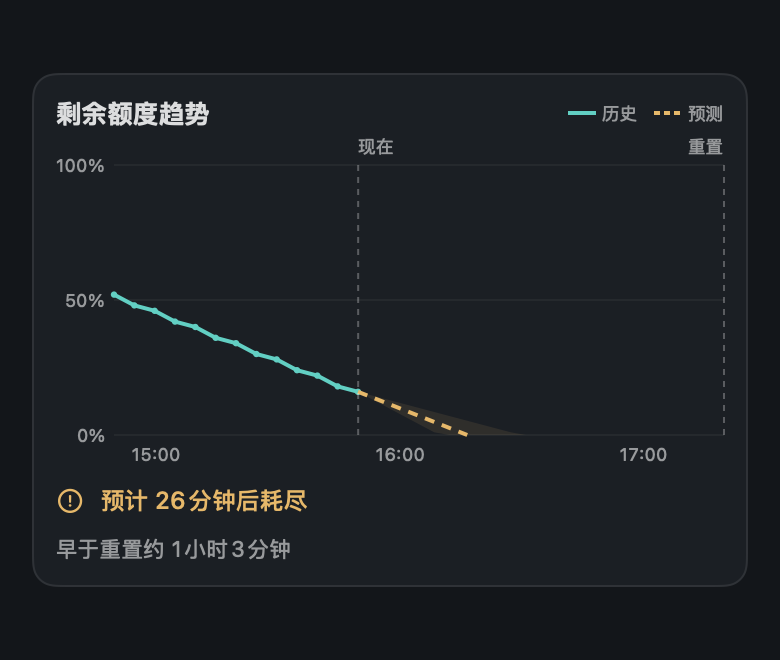
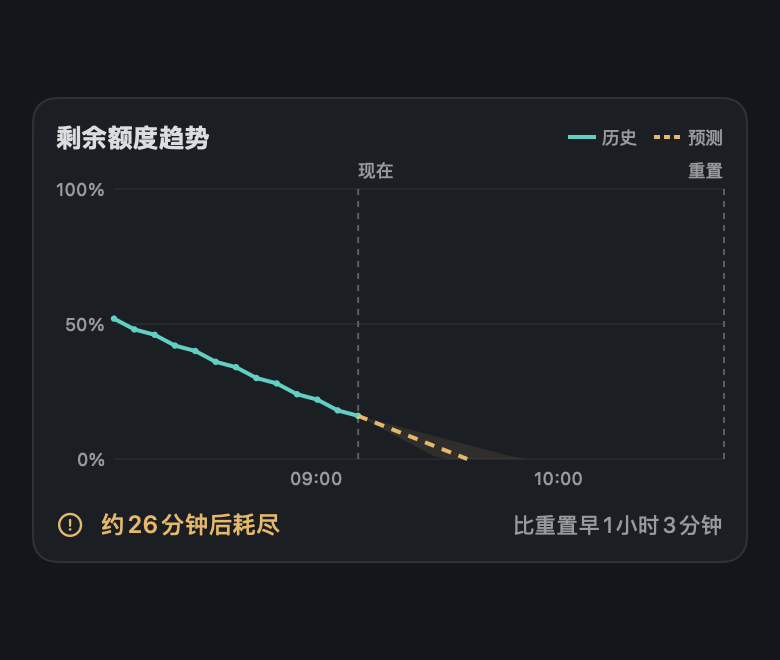
fix: align trend summaries and prepare 0.4.4

diff --git a/CodexWatcher/UsageTrendView.swift b/CodexWatcher/UsageTrendView.swift
@@ -101,17 +101,32 @@ struct UsageTrendView: View {
             .padding(.top, 8)
             .accessibilityLabel("剩余额度趋势")
             .accessibilityValue([summary, secondarySummary].compactMap { $0 }.joined(separator: "，"))
-            Label(summary, systemImage: warning ? "exclamationmark.circle" : "chart.xyaxis.line")
-                .font(.system(size: 12, weight: .medium))
-                .foregroundStyle(warning ? palette.warning : .secondary)
             if let secondarySummary {
-                Text(secondarySummary).font(.system(size: 11)).foregroundStyle(.secondary)
+                ViewThatFits(in: .horizontal) {
+                    HStack(alignment: .firstTextBaseline, spacing: 8) {
+                        summaryLabel.fixedSize()
+                        Spacer(minLength: 0)
+                        Text(secondarySummary).font(.system(size: 11)).foregroundStyle(.secondary).fixedSize()
+                    }
+                    VStack(alignment: .trailing, spacing: 4) {
+                        summaryLabel.frame(maxWidth: .infinity, alignment: .leading)
+                        Text(secondarySummary).font(.system(size: 11)).foregroundStyle(.secondary)
+                    }
+                }
+            } else {
+                summaryLabel
             }
         }
         .padding(12)
         .background(palette.surface, in: RoundedRectangle(cornerRadius: 12))
         .overlay(RoundedRectangle(cornerRadius: 12).strokeBorder(palette.separator))
         .help("按近一小时用量估算，阴影反映消耗速度差异，仅供参考。")
+    }
+
+    private var summaryLabel: some View {
+        Label(summary, systemImage: warning ? "exclamationmark.circle" : "chart.xyaxis.line")
+            .font(.system(size: 12, weight: .medium))
+            .foregroundStyle(warning ? palette.warning : .secondary)
     }
 
     private var warning: Bool {
@@ -127,7 +142,7 @@ struct UsageTrendView: View {
         guard let forecast else { return String(localized: "正在积累数据") }
         guard let exhaustion = forecast.exhaustion else { return String(localized: "近期无消耗") }
         if let reset = quota.resetDate, exhaustion < reset {
-            return L10n.text("预计 \(format.duration(max(0, exhaustion.timeIntervalSince(date))))后耗尽", locale: locale)
+            return L10n.text("约\(format.duration(max(0, exhaustion.timeIntervalSince(date)), compact: true))后耗尽", locale: locale)
         }
         return String(localized: "预计可用到本次重置")
     }
@@ -135,7 +150,7 @@ struct UsageTrendView: View {
     private var secondarySummary: String? {
         guard let exhaustion = forecast?.exhaustion, let reset = quota.resetDate,
               exhaustion < reset else { return nil }
-        return L10n.text("早于重置约 \(format.duration(reset.timeIntervalSince(exhaustion)))", locale: locale)
+        return L10n.text("比重置早\(format.duration(reset.timeIntervalSince(exhaustion), compact: true))", locale: locale)
     }
 
     private func legend(_ text: LocalizedStringKey, color: Color, dashed: Bool) -> some View {

diff --git a/scripts/DocumentationPreview.swift b/scripts/DocumentationPreview.swift
@@ -104,6 +104,20 @@ struct DocumentationPreview {
                 size: NSSize(width: 390, height: 330), dark: dark,
                 to: output.appendingPathComponent(dark ? "usage-trend-dark.png" : "usage-trend-light.png"))
         }
+        // Long durations exercise the summary row at normal and constrained widths.
+        let longReset = Date(timeIntervalSince1970: now + 149 * 3600)
+        let segment = UUID()
+        let longSamples = stride(from: -60, through: 0, by: 10).map { minute in
+            UsageTrendSample(date: Date(timeIntervalSince1970: now + Double(minute * 60)),
+                             remaining: 70 - Double(minute) / 30, reset: longReset, segment: segment)
+        }
+        for width in [390, 350, 280] {
+            try await render(UsageTrendView(samples: longSamples,
+                quota: QuotaWindow(usedPercent: 30, windowDurationMins: 10080, resetsAt: longReset.timeIntervalSince1970),
+                date: Date(timeIntervalSince1970: now), stale: false, storageFailed: false).padding(16),
+                size: NSSize(width: width, height: 300), dark: true,
+                to: output.appendingPathComponent("usage-trend-long-summary-\(width).png"))
+        }
         monitor.selectedWindowID = "codex.primary"
         for dark in [false, true] {
             defaults.set(dark ? "dark" : "light", forKey: "appearance")

diff --git a/Tests/PresentationFormatTests.swift b/Tests/PresentationFormatTests.swift
@@ -93,6 +93,16 @@ final class PresentationFormatTests: XCTestCase {
         XCTAssertTrue(format.deviation(8.4).contains("个百分点"))
     }
 
+    func testCompactDurationKeepsTwoUnitsAndSubminuteMeaning() {
+        for language in ["en_US", "zh_CN"] {
+            let format = PresentationFormat(locale: Locale(identifier: language), timeZone: shanghai)
+            let compact = format.duration(35 * 3600, compact: true)
+            XCTAssertTrue(compact.contains("1") && compact.contains("11"))
+            XCTAssertLessThanOrEqual(compact.count, format.duration(35 * 3600).count)
+            XCTAssertEqual(format.duration(30, compact: true), format.duration(30))
+        }
+    }
+
     func testDurationDoesNotTruncateFractionalHoursOrClaimZeroMinutes() {
         let format = PresentationFormat(locale: Locale(identifier: "zh_CN"), timeZone: shanghai)
         let quota = format.quotaDuration(90)

diff --git a/CodexWatcher/PresentationFormat.swift b/CodexWatcher/PresentationFormat.swift
@@ -82,14 +82,14 @@ struct PresentationFormat {
         text("\(number(value, decimals: 1, signed: signed)) percentage points")
     }
 
-    func duration(_ seconds: TimeInterval) -> String {
+    func duration(_ seconds: TimeInterval, compact: Bool = false) -> String {
         if seconds > 0 && seconds < 60 { return text("Less than a minute") }
         let formatter = DateComponentsFormatter()
         var calendar = Calendar.autoupdatingCurrent
         calendar.locale = locale
         calendar.timeZone = timeZone
         formatter.calendar = calendar
-        formatter.unitsStyle = .full
+        formatter.unitsStyle = compact ? .abbreviated : .full
         formatter.allowedUnits = [.day, .hour, .minute]
         formatter.maximumUnitCount = 2
         formatter.zeroFormattingBehavior = .dropAll

diff --git a/docs/images/README.md b/docs/images/README.md
@@ -14,6 +14,7 @@
 | [dashboard-trend-full-dark.png](dashboard-trend-full-dark.png) | 切换后的趋势视图（暗色，拉高窗口展示） |
 | [usage-trend-light.png](usage-trend-light.png) | 剩余额度历史、走势范围与预测耗尽时间（亮色） |
 | [usage-trend-dark.png](usage-trend-dark.png) | 剩余额度历史与预测（暗色） |
+| [usage-trend-summary-row.png](usage-trend-summary-row.png) | 长时长预测摘要在 350 点宽度下单行展示；[英文预览](en/usage-trend-summary-row.png) |
 | [dashboard-pro-short-only.png](dashboard-pro-short-only.png) | Pro 仅返回短周期额度，不显示 7 天窗口 |
 | [menu-bar-settings.png](menu-bar-settings.png) | 状态栏设置与数值预览 |
 | [reset-confirmation.png](reset-confirmation.png) | 重置确认页 |

diff --git a/CHANGELOG.md b/CHANGELOG.md
@@ -2,6 +2,10 @@
 
 ## 未发布
 
+## 0.4.4 — 2026-10-29
+
+- 将预计耗尽时间与早于重置的时间差合并为左右对齐的一行，精简文案并使用紧凑时长；空间不足时保留完整文字换行显示。
+
 ## 0.4.3 — 2026-10-29
 
 - 将趋势面板的返回操作合并到左侧标题，移除右侧独立按钮；保留悬停、键盘聚焦与空格键返回。
